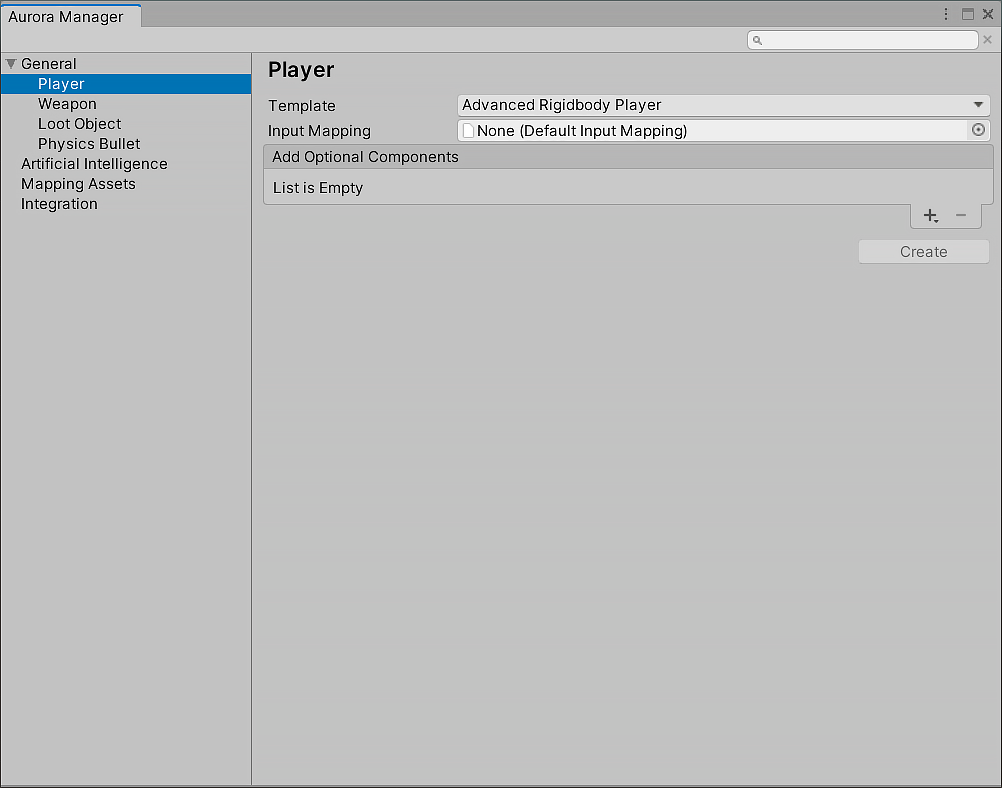
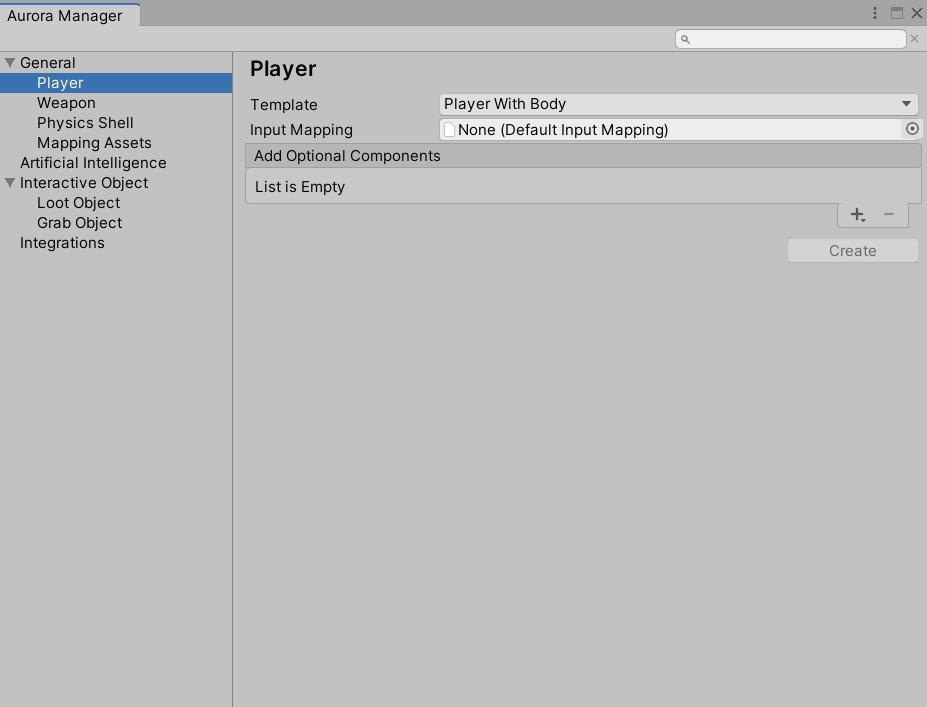
Updated controller page

Changed region(s): [[0.0, 0.0, 1.0, 1.0], [0.0, 0.0, 0.151, 0.0311], [0.9061, 0.2489, 0.9364, 0.3734]]

diff --git a/player_section/rigidbody-controller/index.html b/player_section/rigidbody-controller/index.html
@@ -8,7 +8,7 @@
   
   
   <link rel="shortcut icon" href="../../img/favicon.ico">
-  <title>Rigidbody Controller - Aurora FPS Documentation</title>
+  <title>Player Controller - Aurora FPS Documentation</title>
   <link href='https://fonts.googleapis.com/css?family=Lato:400,700|Roboto+Slab:400,700|Inconsolata:400,700' rel='stylesheet' type='text/css'>
 
   <link rel="stylesheet" href="../../css/theme.css" type="text/css" />
@@ -17,8 +17,8 @@
   
   <script>
     // Current page data
-    var mkdocs_page_name = "Rigidbody Controller";
-    var mkdocs_page_input_path = "player_section/rigidbody-controller.md";
+    var mkdocs_page_name = "Player Controller";
+    var mkdocs_page_input_path = "player_section/Player-controller.md";
     var mkdocs_page_url = null;
   </script>
   
@@ -64,7 +64,7 @@
     <ul class="subnav">
                 <li class=" current">
                     
-    <a class="current" href="./">Rigidbody Controller</a>
+    <a class="current" href="./">Player Controller</a>
     <ul class="subnav">
             
     <li class="toctree-l3"><a href="#create-controller">Create Controller</a></li>
@@ -194,7 +194,7 @@
         
       
     
-    <li>Rigidbody Controller</li>
+    <li>Player Controller</li>
     <li class="wy-breadcrumbs-aside">
       
     </li>
@@ -220,7 +220,7 @@
 <tbody>
 <tr>
 <td>Template</td>
-<td><strong>Advanced Rigidbody Player:</strong> This is a player that already contains preset weapons and the body of a character with animations.<br><br> <strong>Simple Rigidbody Player:</strong> This is a lightweight clean player that only has all the necessary components. Weapons and bodies are not preset. (Suitable when you want to customize the player ndependently)</td>
+<td><strong>Player With Body:</strong> This is a player that already contains preset weapons and the body of a character with animations.<br>
 </tr>
 <tr>
 <td>Input Mapping</td>
@@ -235,7 +235,7 @@
 <p>After complete configuration click <strong>Create</strong> button.</p>
 <hr />
 <h2 id="configure-controller">Configure Controller</h2>
-<p>First person rigidbody controller handled by <strong>FPRController</strong> component.</p>
+<p>First person Player controller handled by <strong>FPRController</strong> component.</p>
 <p><img alt="Screenshot" src="/img/player/controller/fprcontroller-component.png" /></p>
 <h3 id="base-properties">Base Properties</h3>
 <p><img alt="Screenshot" src="/img/player/controller/base-properties.png" /></p>
